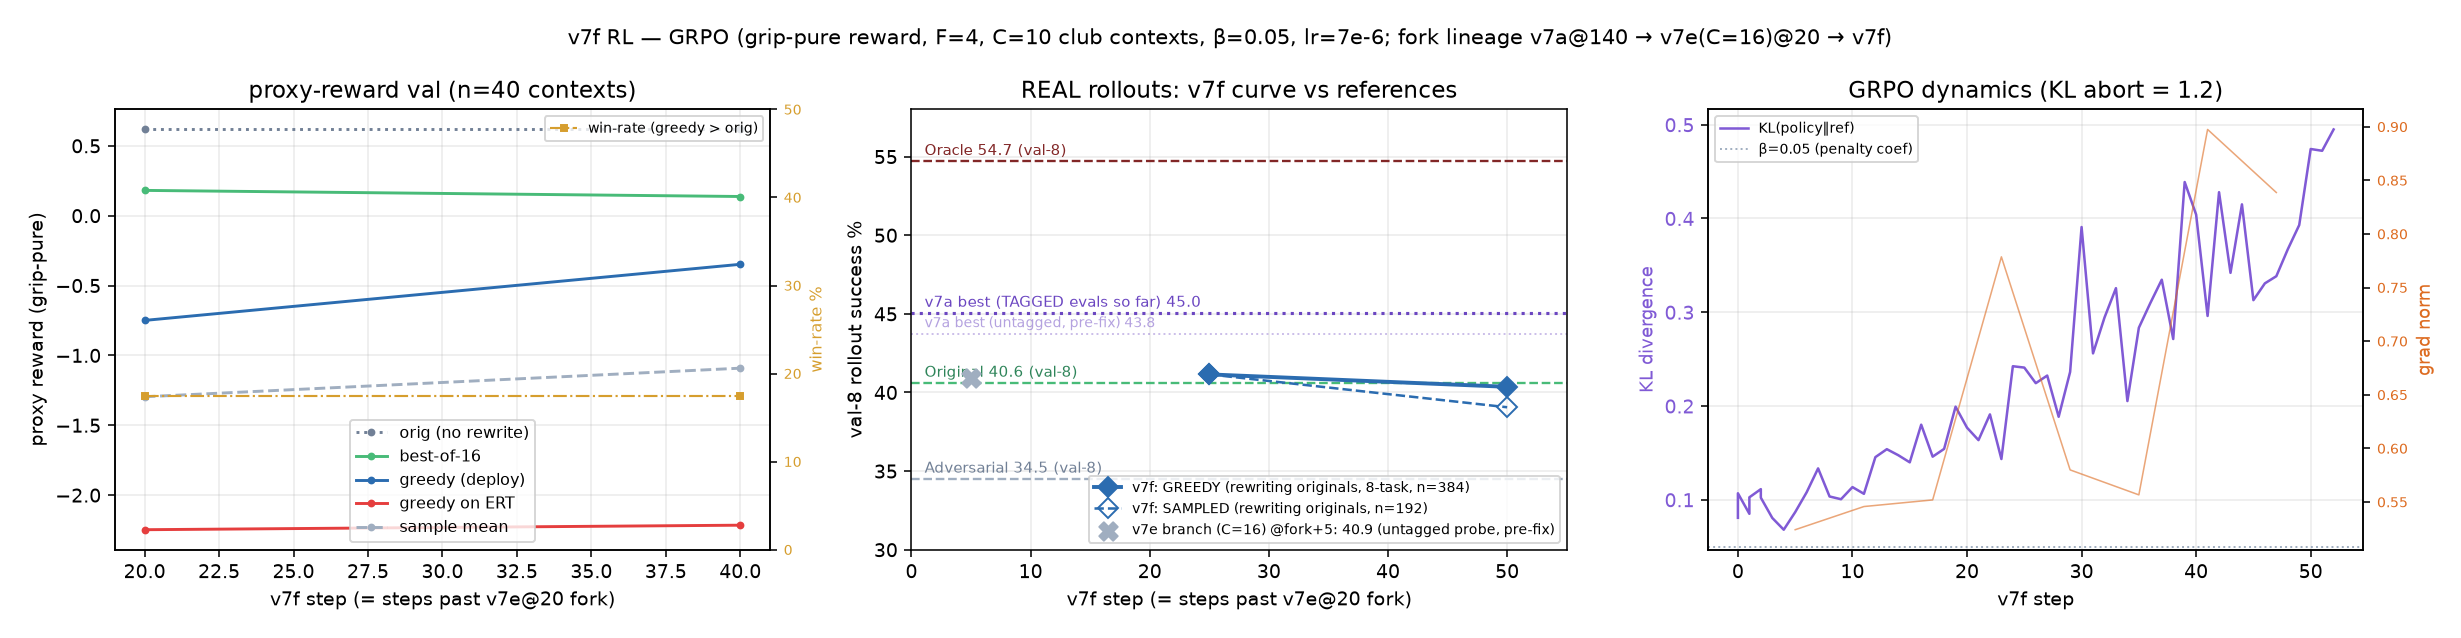
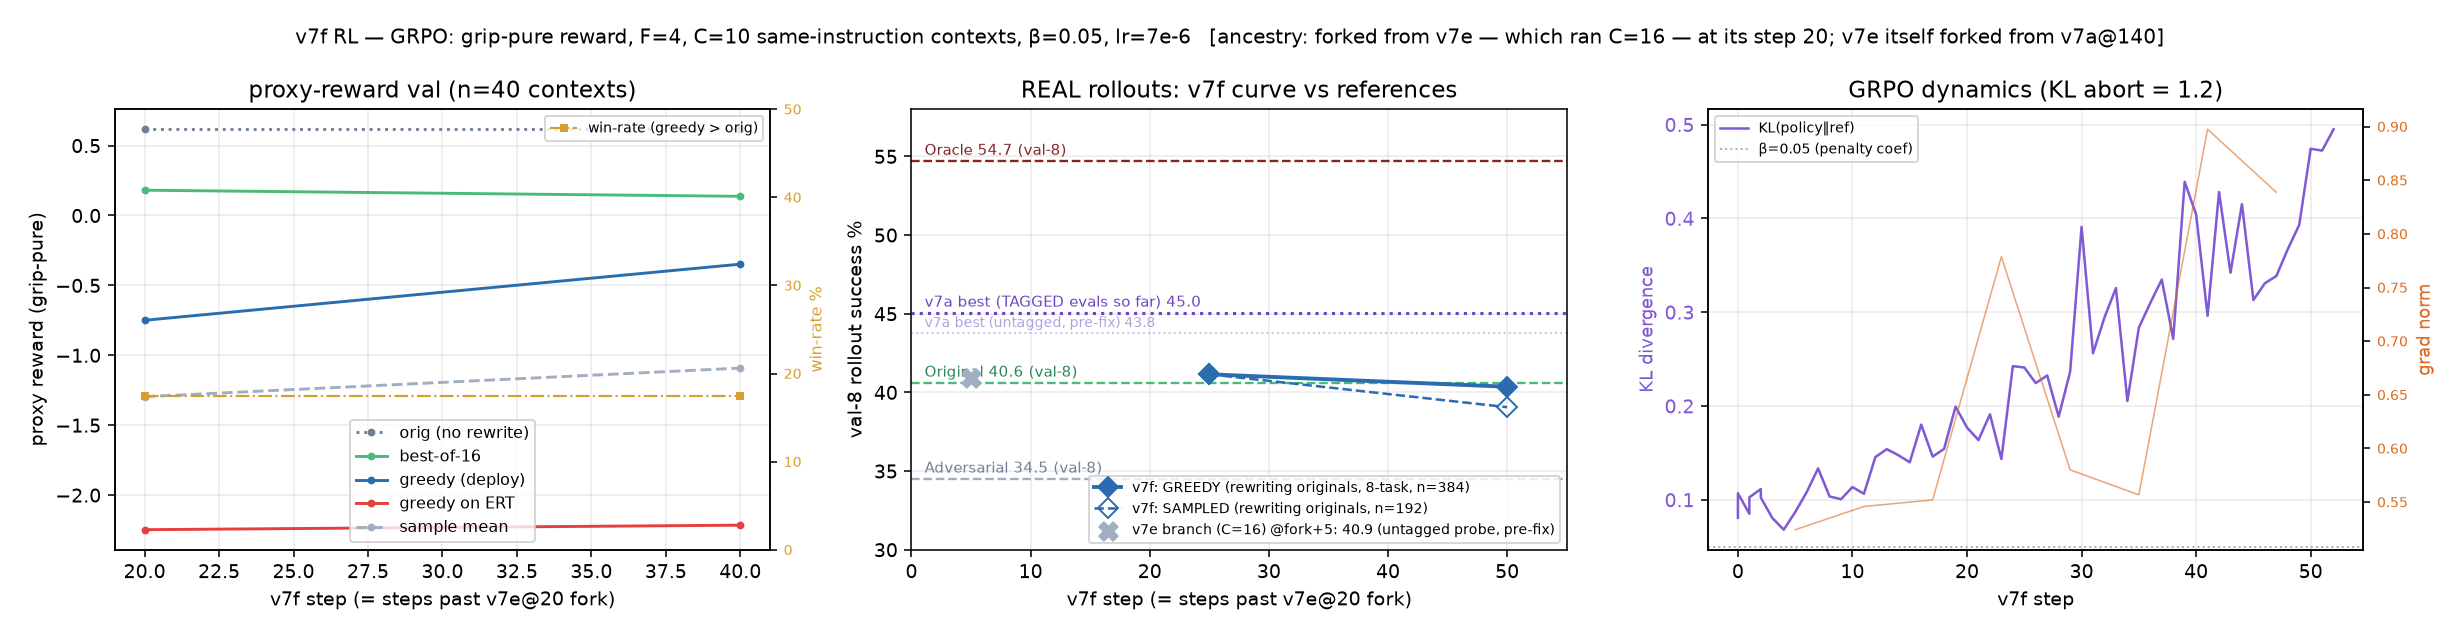
v7f chart: unambiguous C=10 title, ancestry bracketed

diff --git a/scripts/make_v7f_progress.py b/scripts/make_v7f_progress.py
@@ -130,8 +130,9 @@ a3.set_title("GRPO dynamics (KL abort = 1.2)")
 a3.legend(loc="upper left", fontsize=7)
 a3.grid(alpha=0.25)
 
-fig.suptitle("v7f RL — GRPO (grip-pure reward, F=4, C=10 club contexts, β=0.05, lr=7e-6; "
-             "fork lineage v7a@140 → v7e(C=16)@20 → v7f)", fontsize=11)
+fig.suptitle("v7f RL — GRPO: grip-pure reward, F=4, C=10 same-instruction contexts, β=0.05, lr=7e-6   "
+             "[ancestry: forked from v7e — which ran C=16 — at its step 20; v7e itself forked from v7a@140]",
+             fontsize=10.5)
 fig.tight_layout()
 fig.savefig("results/charts/v7f_progress.png", dpi=140, bbox_inches="tight", pad_inches=0.2)
 print("chart -> results/charts/v7f_progress.png")
